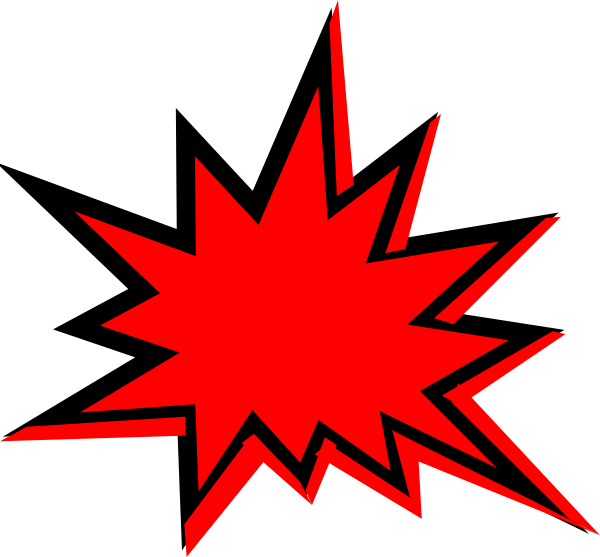
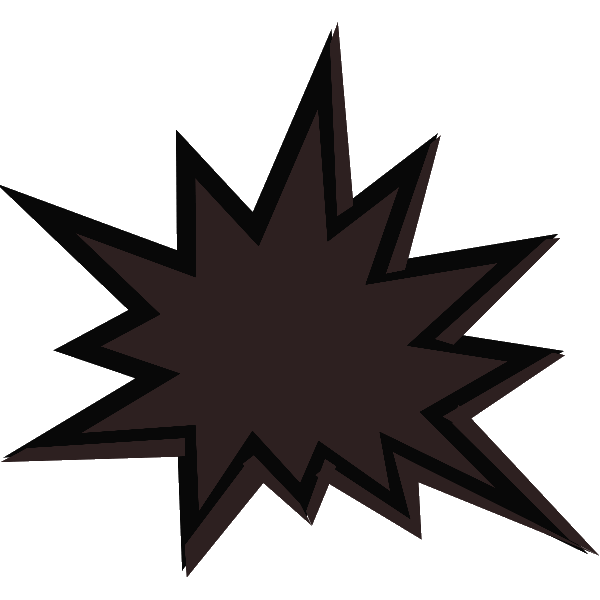
Changes some styles and makes critbgs only show up on crits

diff --git a/lib/utilities.js b/lib/utilities.js
@@ -188,14 +188,16 @@ urlify = function(text) {
 showDamage = function(element,damage, color, bgimg) {
 	color = color || "red";
 	var div = document.createElement("div");
+	
 	div.style.width = "100px";
 	div.style.height = "100px";
-	div.style.background = "transparent";
+	div.style.background = "";
 	if (bgimg) {
-		div.style.backgroundImage = bgimg;
+		div.style.backgroundImage = "url(" + bgimg + ")";
 		div.style.backgroundRepeat = "no-repeat";
 		div.style.backgroundSize = "contain";
 	}
+	
 	div.style.color = color;
 	div.style.zIndex = 100;
 	div.style.textAlign = "center";
@@ -205,9 +207,11 @@ showDamage = function(element,damage, color, bgimg) {
 	div.className = classname;
 	var pos = element.offset();
 	var elemWidth = element.width();
+	var elemHeight = element.height();
+	
 	var width = div.offsetWidth;
 	var x = pos.left + elemWidth/2 - 50;
-	var y = pos.top - 50;
+	var y = pos.top + elemHeight/2 - 50;
 	
 	document.body.appendChild(div);
 	$('.' + classname).css({
@@ -223,10 +227,18 @@ showDamage = function(element,damage, color, bgimg) {
 	var incy = 3;
 	var fontsize = 50;
 	var _id = setInterval(function () {
-		$("." + classname).css({top: y, left: x, position: 'absolute', "font-size": fontsize});
+		$("." + classname).css({
+			top: y,
+			left: x,
+			width: (fontsize*1.5),
+			height: (fontsize*1.5),
+			position: 'absolute',
+			"font-size": fontsize
+		});
 		fontsize -= 0.5;
 		x += randomx;
 		y -= incy;
+		
 		incy -= 0.1;
 		if (y > $(window).height() || x > $(window).width() || x < 0) {
 			$("." + classname).remove();

diff --git a/client/game/unit.html b/client/game/unit.html
@@ -54,7 +54,7 @@
 						<span class="red-text text-lighten-5">Base Stats</span>
 						<div class="row">
 							{{#each stat in baseStats}}
-								<div class="col s4 tooltipped blue-grey darken-3 center z-depth-2" 
+								<div class="col s6 m4 l2 tooltipped blue-grey darken-3 center z-depth-2" 
 							data-position="bottom" data-delay="10" data-tooltip="{{tooltipFor stat}}">
 									<span class="left stattext">{{statName stat}}</span>
 									<span class="right stattext">{{getStat stat}}</span>
@@ -76,7 +76,7 @@
 						<span class="red-text text-lighten-5">Combat Stats</span>
 						<div class="row">
 							{{#each stat in displayStats}}
-								<div class="col s3 tooltipped blue-grey darken-3 center z-depth-2" 
+								<div class="col s6 tooltipped blue-grey darken-3 center z-depth-2" 
 							data-position="bottom" data-delay="10" data-tooltip="{{tooltipFor stat}}">
 									<span class="left stattext">{{statName stat}}</span>
 									<span class="right stattext">{{getStat stat}}</span>

diff --git a/client/global/helpers.js b/client/global/helpers.js
@@ -93,7 +93,7 @@ var tooltips = {
 	tough: "Boosts Resilience",
 	rflex: "Boosts Evasion",
 	intut: "Boosts Aegis",
-	sight: "Boosts Critical Rate",
+	sight: "Boosts Crit Rate",
 }
 var statNames = {
 	str: "STR",
@@ -114,9 +114,9 @@ var statNames = {
 	cspd: "Recast",
 	crit: "Crit Rate",
 	resi: "Resilience",
-	rhp: "Health Recovery",
-	rmp: "Mana Recovery",
-	rsp: "Spirit Recovery",
+	rhp: "Hp Rec",
+	rmp: "Mp Rec",
+	rsp: "Sp Rec",
 	armor: "Armor",
 	shell: "Shell",
 	tough: "Toughness",

diff --git a/lib/game/duckpunches.js b/lib/game/duckpunches.js
@@ -495,8 +495,8 @@ addToObject("applyDamage", function(results, combatObj) {
 	} else {
 		var tdmg = Math.floor(totalDamage);
 		var col = dmgTextColor((this.team == 'player'), crit, antiCrit);
-		//var bg = crit ? "/critbg.png" : null;
-		var bg = "/critbg.png";
+		var bg = crit ? "/critbg.png" : null;
+		//var bg = "/critbg.png";
 		messages[this._id] = { text:tdmg, color:col, bgimg: bg };
 		
 		this.pose("hurt", .8);

diff --git a/client/game.html b/client/game.html
@@ -17,7 +17,7 @@
 					
 					<div class="col s12 center">
 						<label for="combatlog" class="orange-text">Combat Log</label>
-						<textarea id="combatlog" class="validate left" rows="8" style="height:8em;resize: vertical;"></textarea>
+						<textarea id="combatlog" class="validate left combatLog" rows="10" style="height:10em;resize: vertical;"></textarea>
 					</div>
 					{{fillCombatMessages}}
 					

diff --git a/bbs.css b/bbs.css
@@ -85,6 +85,9 @@ pre {
 .unknownUnit {
 	background-color: #331155;
 }
+.combatLog {
+	font-size: .6rem;
+}
 
 .blendRed {
 	background-color: #AA3333;
